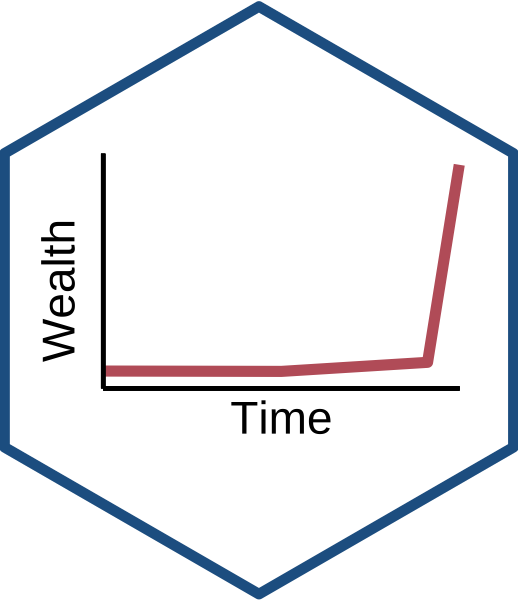
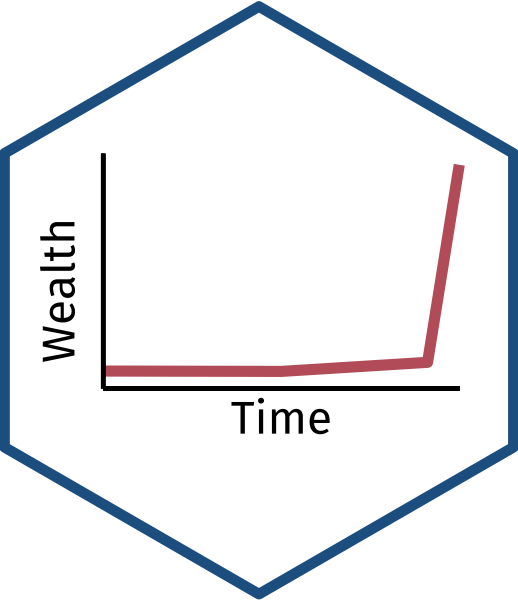
Update readme, change dev font to Fira Sans

Changed region(s): [[0.0618, 0.39, 0.1544, 0.6], [0.4633, 0.66, 0.6486, 0.72]]

diff --git a/README.md b/README.md
@@ -1,15 +1,9 @@
-hexstickers
-===========
+Hex Stickers used for courses websites and course slides
 
-Hex Stickers for courses and packages
-
-Using [hexwall](https://github.com/mitchelloharawild/hexwall).
+Stickers
+========
 
     source("scripts/hexwall.R")
-
-    ## Linking to ImageMagick 6.9.9.39
-    ## Enabled features: cairo, fontconfig, freetype, lcms, pango, rsvg, webp
-    ## Disabled features: fftw, ghostscript, x11
 
     hexwall(path = "stickers_png/",
             sticker_row_size = 3,
@@ -23,3 +17,113 @@ Using [hexwall](https://github.com/mitchelloharawild/hexwall).
     )
 
 <img src="README_files/figure-markdown_strict/unnamed-chunk-1-1.png" width="1500" />
+
+All hex images were made using [GuangchuangYu’s `hexSticker`
+package](https://github.com/GuangchuangYu/hexSticker).
+
+Hexwall made using [mitchelloharawild’s `hexwall`
+package](https://github.com/mitchelloharawild/hexwall).
+
+Images are stored in `hex_png` folder.
+
+-   [Classes](#classes)
+    -   [Microeconomics](#microeconomics)
+    -   [Economics of Development](#economics-of-development)
+    -   [International Trade](#international-trade)
+    -   [Industrial Organization](#industrial-organization)
+    -   [Public Economics](#public-economics)
+    -   [History of Economic Thought](#history-of-economic-thought)
+    -   [Econometrics](#econometrics)
+
+Microeconomics
+--------------
+
+![](stickers_png/micro_hex.png)
+
+-   **Course**: ECON 306 at Hood College \[[Fall
+    2019](https://microf19.classes.ryansafner.com)\]; \[[Spring
+    2020](https://micros20.classes.ryansafner.com)\]; \[[Fall
+    2020](https://microf20.classes.ryansafner.com)\]
+-   **Details**: A stylized version of an indifference curve graph
+    featuring a decrease in the price of good *X*. Bonus points if you
+    can identify income and substitution effects! Produced with
+    `ggplot2` (see `micro.R` script for source)
+
+Economics of Development
+------------------------
+
+![](stickers_png/dev_hex.png)
+
+-   **Course**: ECON 317 at Hood College \[[Fall
+    2019](https://devf19.classes.ryansafner.com)\]
+-   **Details**: A stylized version of “the great fact” using
+    [Maddison’s historical GDP
+    data](https://books.google.ca/books?id=YeoEiNLtrLsC&printsec=frontcover&dq=Angus+Maddison,+The+World+Economy,+vol.+2,+Historical+Statistics&hl=en&sa=X&ved=0ahUKEwjmnbvpy4HSAhWhx4MKHaJ0Ah0Q6AEIJTAA#v=onepage&q=Angus%20Maddison%2C%20The%20World%20Economy%2C%20vol.%202%2C%20Historical%20Statistics&f=false).
+    Produced with `ggplot2` (see `dev.R` script for source)
+
+International Trade
+-------------------
+
+![](stickers_png/trade_hex.png)
+
+-   **Course**: ECON 324 at Hood College \[[Fall
+    2020](https://tradef20.classes.ryansafner.com)\]
+-   **Details**: Crudely designed on [Gravit
+    Designer](https://www.designer.io/en/), images drawn from [The Noun
+    Project](https://thenounproject.com)
+    -   [Ship by Anne
+        Bittencourt](https://thenounproject.com/icon/13420/)
+    -   [Globe by i cons](https://thenounproject.com/icon/1939582/)
+
+Industrial Organization
+-----------------------
+
+![](stickers_png/io_hex.png)
+
+-   **Course**: ECON 326 at Hood College \[[Spring
+    2020](https://ios20.classes.ryansafner.com)\]
+-   **Details**: My attempt at an abstract industry depicting firms of
+    different sizes/market shares. Produced with `ggplot2` using code
+    inspired by [Ed Rubin](https://github.com/edrubin/)’s awesome course
+    slides (see `io.R` script for source)
+
+Public Economics
+----------------
+
+![](stickers_png/public_hex.png)
+
+-   **Course**: ECON 410 at Hood College \[[Spring
+    2020](https://publics20.classes.ryansafner.com)\]
+-   **Details**: Bubble-packed chart using image, produced with
+    `ggplot2` based on [this
+    code](https://www.r-bloggers.com/bubble-packed-chart-with-r-using-packcircles-package/)
+    (see `oublic.R` script for source)
+    -   Image used: [Capitol Dome
+        (cropped)](/image_sources/capitaldomecrop.jpg)
+
+History of Economic Thought
+---------------------------
+
+![](stickers_png/thought_hex.png)
+
+-   **Course**: ECON 452 at Hood College \[[Fall
+    2020](https://thoughtf20.classes.ryansafner.com)\]
+-   **Details**: Crudely designed on [Gravit
+    Designer](https://www.designer.io/en/), images drawn from [The Noun
+    Project](https://thenounproject.com)
+    -   [Supply and Demand Graph by Alicia
+        Kranjc](https://thenounproject.com/icon/707891/)
+    -   [Quill and Book by Andreas
+        Wilkström](https://thenounproject.com/icon/220016/)
+
+Econometrics
+------------
+
+![](stickers_png/metrics_hex.png)
+
+-   **Course**: ECON 480 at Hood College \[[Fall
+    2019](https://metricsf19.classes.ryansafner.com)\]; \[[Fall
+    2020](https://metricsf20.classes.ryansafner.com)\]
+-   **Details**: Stylized version of [Hans Rosling’s health + wealth
+    plot](https://github.com/jennybc/gapminder). Produced in `ggplot2`
+    (see `metrics.R` script for source)
